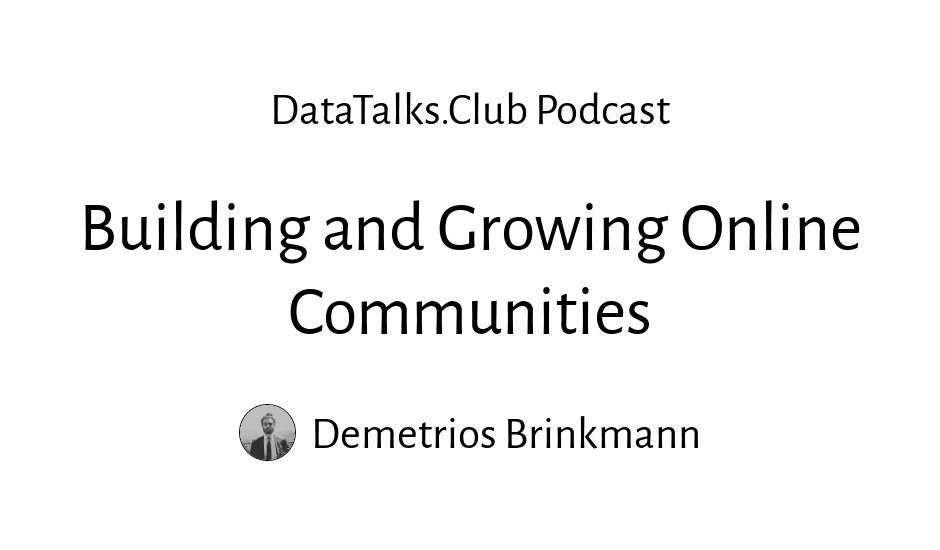
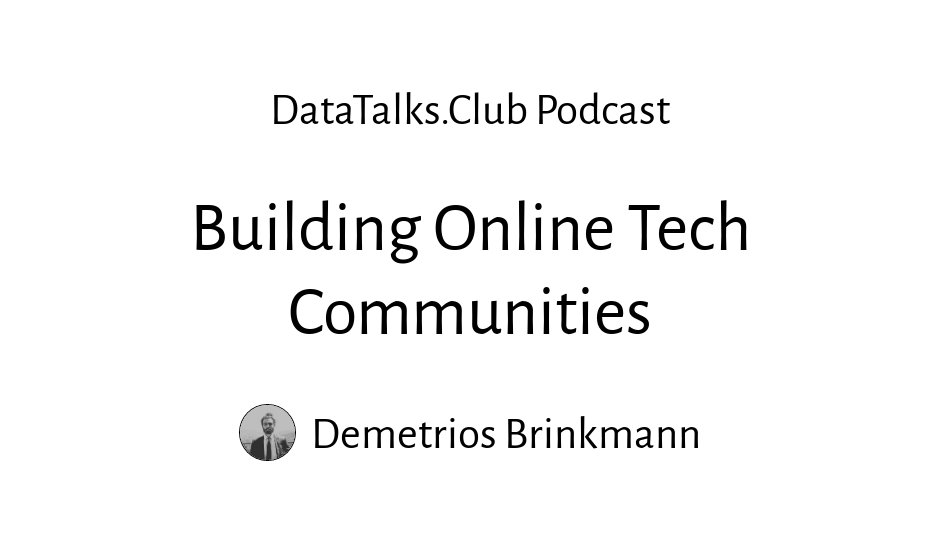
adjusted the title

Changed region(s): [[0.0926, 0.3709, 0.9255, 0.4945]]

diff --git a/_podcast/s02e12-communities.md b/_podcast/s02e12-communities.md
@@ -1,6 +1,6 @@
 ---
-title: "Building and Growing Online Communities"
-short: "Building and Growing Online Communities"
+title: "Building Online Tech Communities"
+short: "Building Online Tech Communities"
 guests: [demetriosbrinkmann]
 
 image: images/podcast/s02e12-communities.jpg
